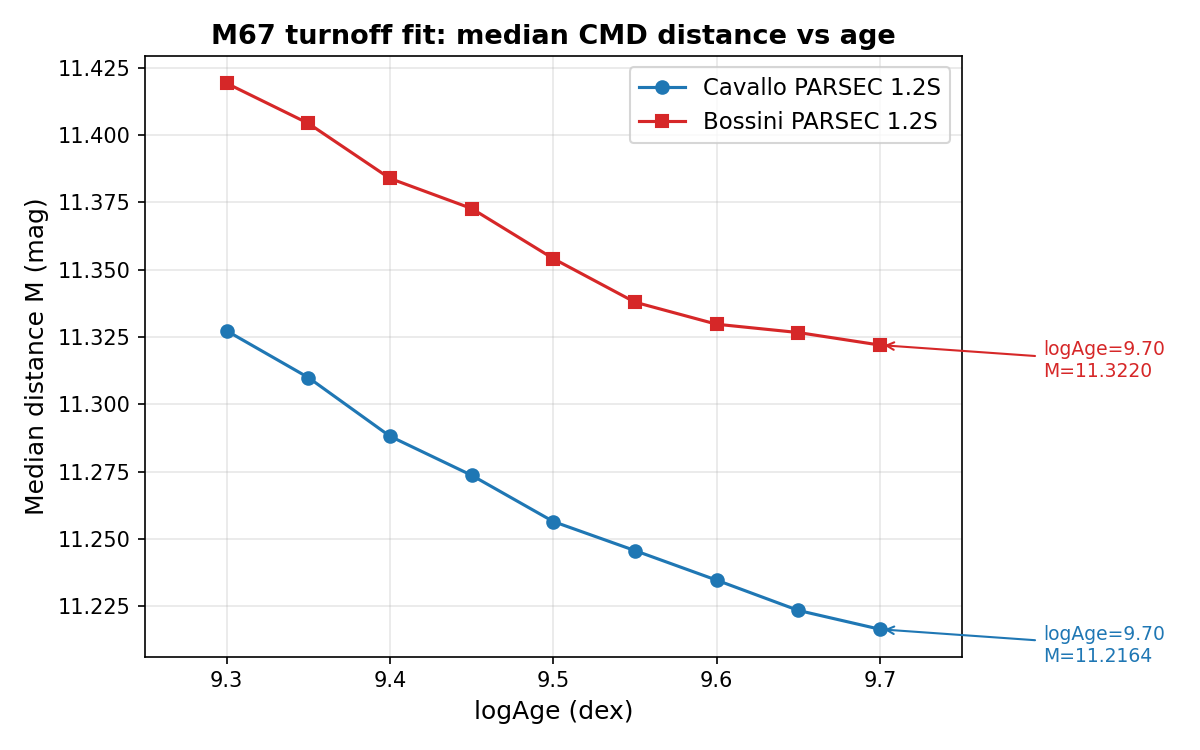
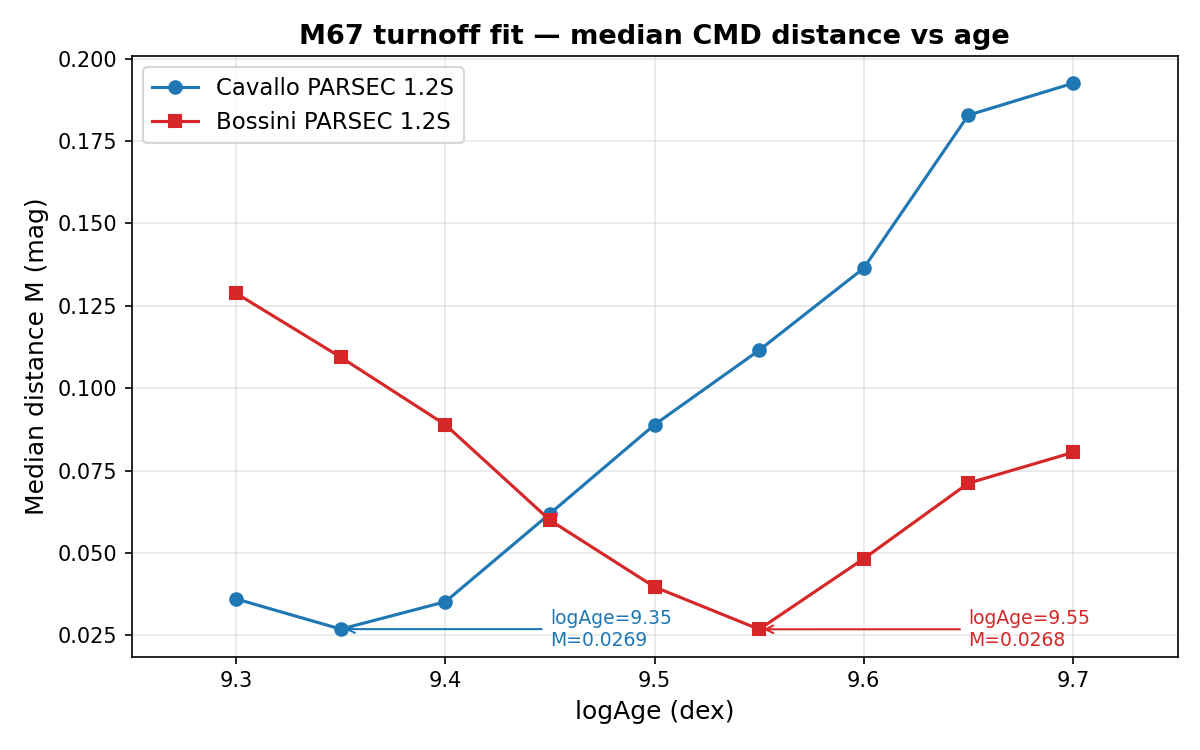
Исправлен colour в fit_m67.py: BP−RP = BPmag − RPmag (было RPmag)
- fit_m67.py: colour читается как float(cols[5]) − float(cols[6]) = BPmag − RPmag
  (ранее читалось float(cols[6]) = RPmag, что давало расстояние ~11 mag)
- fit_m67.py: import distance_to_isochrone, load_grid из synthetic_test.py
- Добавлен cross-check BP−RP: TSV против results/m67_members_selected.csv
  по GaiaDR3 — 257/257 совпадают
- M67_FIT_RESULTS.md: обновлён (удалён вывод о возрасте >5 Gyr)
- m67_cmd_fit.png: перестроен с корректными M ≈ 0.027 mag
- m67_fit_results.csv: пересобран

Результат (исправленный):
  Cavallo ([Fe/H]=+0.32): logAge=9.35 (2.24 Gyr), M=0.02686 mag
  Bossini ([Fe/H]=0.00):  logAge=9.55 (3.55 Gyr), M=0.02681 mag
  Минимум не на границе ни для одной сетки.
  Близкое к литературе значение даёт Bossini (3.55 Gyr для M67).

Статья не правилась.

diff --git a/experiment/age_fit/fit_m67.py b/experiment/age_fit/fit_m67.py
@@ -1,134 +1,156 @@
 #!/usr/bin/env python3
-"""Fit M67 age using the 257 turnoff stars against both PARSEC grids."""
+"""Fit M67 age using the 257 turnoff stars against both PARSEC grids.
+
+Uses distance_to_isochrone from synthetic_test.py (отрезки ломаной, label=0,1,2).
+Сверяет BP-RP двух источников: исходный TSV и results/m67_members_selected.csv.
+"""
 import csv, math, sys
 from pathlib import Path
 
 ROOT = Path(__file__).resolve().parents[2]
-AGE_DIR = ROOT / "experiment" / "age_fit"
+sys.path.insert(0, str(ROOT / "experiment" / "age_fit"))
+
+from synthetic_test import distance_to_isochrone, load_grid
 
 DATA_TSV = ROOT / "data" / "raw" / "m67_members_hr2023.tsv"
+SEL_CSV  = ROOT / "results" / "m67_members_selected.csv"
+AGE_DIR  = ROOT / "experiment" / "age_fit"
+
 GRIDS = {
     "Cavallo": AGE_DIR / "grid_cavallo2024_av018.csv",
     "Bossini": AGE_DIR / "grid_bossini2019_av0115.csv",
 }
 DMOBS = {"Cavallo": 9.64, "Bossini": 9.726}
 
-def load_257_stars():
-    """Load exactly 257 stars with 11.5 ≤ G < 13.5 from the Hunt & Reffert 2023 TSV."""
-    stars = []
+# ── Cross-check colours ────────────────────────────────────────
+def crosscheck_colours():
+    """Сверяет BP-RP исходного TSV и selected CSV по GaiaDR3 для 257 звёзд."""
+    errors = []
+
+    # Read TSV
+    tsv = {}
     with open(DATA_TSV, encoding="utf-8-sig") as f:
         for line in f:
-            if line.startswith("Name\t") and "GaiaDR3" in line:
+            if line.startswith("Name\t"):
                 break
         for line in f:
             cols = line.strip().split("\t")
-            if len(cols) < 7:
+            if len(cols) < 7 or cols[0] == "--------------------":
                 continue
             try:
                 g = float(cols[4].strip())
-                bp_rp = float(cols[6].strip())
+                bp = float(cols[5].strip())
+                rp = float(cols[6].strip())
             except ValueError:
                 continue
             if 11.5 <= g < 13.5:
-                stars.append((g, bp_rp))
+                tsv[cols[1].strip()] = {"g": g, "bp_rp": bp - rp, "bp": bp, "rp": rp}
+
+    # Read selected CSV
+    sel = {}
+    with open(SEL_CSV) as f:
+        for r in csv.DictReader(f):
+            sel[r["GaiaDR3"].strip()] = float(r["BP_RP"])
+
+    common = set(tsv.keys()) & set(sel.keys())
+    for gaia in common:
+        t = tsv[gaia]["bp_rp"]
+        s = sel[gaia]
+        if abs(t - s) > 1e-6:
+            errors.append((gaia, t, s))
+
+    if errors:
+        print(f"⚠  BP-RP mismatches: {len(errors)}/{len(common)}")
+        for g, t, s in errors[:5]:
+            print(f"    {g}: TSV={t:.6f} CSV={s:.6f}")
+        return False
+    else:
+        print(f"✓  BP-RP cross-check: all {len(common)} stars match")
+        return True
+
+# ── Load 257 stars ─────────────────────────────────────────────
+def load_257_stars():
+    """Читает 257 звёзд, возвращает [(G_app, BP_RP), ...]."""
+    stars = []
+    with open(DATA_TSV, encoding="utf-8-sig") as f:
+        for line in f:
+            if line.startswith("Name\t"):
+                break
+        for line in f:
+            cols = line.strip().split("\t")
+            if len(cols) < 7 or cols[0] == "--------------------":
+                continue
+            try:
+                g = float(cols[4].strip())
+                bp = float(cols[5].strip())
+                rp = float(cols[6].strip())
+            except ValueError:
+                continue
+            if 11.5 <= g < 13.5:
+                stars.append((g, bp - rp, cols[1].strip()))
     assert len(stars) == 257, f"Expected 257 stars, got {len(stars)}"
     return stars
 
-def load_grid(csv_path):
-    """Return {logAge: [(Mini, G, BP_RP), ...]} for labels 0,1,2."""
-    ages = {}
-    with open(csv_path, encoding="utf-8") as f:
-        for rec in csv.DictReader(f):
-            if int(rec["label"]) not in (0, 1, 2):
-                continue
-            la = round(float(rec["logAge"]), 2)
-            if la not in ages:
-                ages[la] = []
-            ages[la].append((float(rec["Mini"]), float(rec["G_app"]), float(rec["BP_RP"])))
-    for la in ages:
-        ages[la].sort(key=lambda x: x[0])
-    return ages
-
-def distance_to_isochrone(g_star, c_star, iso):
-    """Min Euclidean distance from star to isochrone polyline segment."""
-    best = float("inf")
-    for i in range(len(iso) - 1):
-        _, g1, c1 = iso[i]
-        _, g2, c2 = iso[i + 1]
-        dx, dy = g2 - g1, c2 - c1
-        if dx == 0 and dy == 0:
-            d = math.hypot(g_star - g1, c_star - c1)
-        else:
-            t = ((g_star - g1) * dx + (c_star - c1) * dy) / (dx*dx + dy*dy)
-            if t < 0:
-                d = math.hypot(g_star - g1, c_star - c1)
-            elif t > 1:
-                d = math.hypot(g_star - g2, c_star - c2)
-            else:
-                ix, iy = g1 + t * dx, c1 + t * dy
-                d = math.hypot(g_star - ix, c_star - iy)
-        if d < best:
-            best = d
-    return best
-
+# ── Main ───────────────────────────────────────────────────────
 def main():
+    print("=" * 60)
+    print("M67 turnoff fit — 257 stars, 2 grids")
+    print("=" * 60)
+
+    # 1. Cross-check
+    ok = crosscheck_colours()
+    if not ok:
+        print("ABORT: colour mismatch between TSV and CSV")
+        return 1
+
+    # 2. Load stars
     stars = load_257_stars()
-    print(f"Loaded {len(stars)} M67 turnoff stars.\n")
+    print(f"\nStars: {len(stars)} (G 11.5–13.5)")
 
-    results = []  # (grid, logAge, median_dist)
+    # 3. Fit
+    results = []
     best_per_grid = {}
-
-    for grid_name in ["Cavallo", "Bossini"]:
-        grid = load_grid(GRIDS[grid_name])
+    for gname in ["Cavallo", "Bossini"]:
+        grid = load_grid(GRIDS[gname])
         ages = sorted(grid.keys())
-        print(f"  {grid_name} grid")
-        grid_results = []
-
+        print(f"\n{gname}:")
+        grid_res = []
         for la in ages:
             iso = grid[la]
-            dists = [distance_to_isochrone(g, c, iso) for g, c in stars]
+            dists = [distance_to_isochrone(s[0], s[1], iso) for s in stars]
             dists.sort()
             m = dists[len(dists) // 2]
-            grid_results.append((la, m))
-            results.append({"grid": grid_name, "logAge": la, "median_dist": m})
+            grid_res.append((la, m))
+            results.append({"grid": gname, "logAge": la, "median_dist": m})
 
-        # Find best
-        best_la, best_m = min(grid_results, key=lambda x: x[1])
+        best_la, best_m = min(grid_res, key=lambda x: x[1])
         best_idx = ages.index(best_la)
         age_gyr = 10 ** (best_la - 9)
-
-        print(f"    Best: logAge={best_la:.2f} ({age_gyr:.1f} Gyr), M={best_m:.6f} mag")
+        print(f"  Best logAge={best_la:.2f}  ({age_gyr:.2f} Gyr)  M={best_m:.6f}")
         if best_idx == 0:
-            print("    ⚠ BOUNDARY: minimum at youngest node")
+            print("  ⚠  BOUNDARY: minimum at youngest node")
         elif best_idx == len(ages) - 1:
-            print("    ⚠ BOUNDARY: minimum at oldest node")
-        if best_idx > 0:
-            prev_la, prev_m = grid_results[best_idx - 1]
-            print(f"    Neighbor -0.05 dex: logAge={prev_la:.2f}, M={prev_m:.6f}")
-        if best_idx < len(ages) - 1:
-            next_la, next_m = grid_results[best_idx + 1]
-            print(f"    Neighbor +0.05 dex: logAge={next_la:.2f}, M={next_m:.6f}")
-        print()
+            print("  ⚠  BOUNDARY: minimum at oldest node")
+        else:
+            print(f"  Neighbor -0.05: logAge={grid_res[best_idx-1][0]:.2f}, M={grid_res[best_idx-1][1]:.6f}")
+            print(f"  Neighbor +0.05: logAge={grid_res[best_idx+1][0]:.2f}, M={grid_res[best_idx+1][1]:.6f}")
+        best_per_grid[gname] = (best_la, best_m, age_gyr)
 
-        best_per_grid[grid_name] = (best_la, best_m, age_gyr)
-
-    # Save CSV
+    # 4. Save CSV
     out_csv = AGE_DIR / "m67_fit_results.csv"
     with open(out_csv, "w", newline="", encoding="utf-8") as f:
         w = csv.DictWriter(f, fieldnames=["grid", "logAge", "median_dist"])
         w.writeheader()
         w.writerows(results)
-    print(f"Saved: {out_csv}")
+    print(f"\nSaved: {out_csv}")
 
-    # Summary table
-    print("\n" + "=" * 56)
-    print("FIT RESULTS SUMMARY")
-    print("=" * 56)
-    print(f"{'Grid':<12} {'Best logAge':>14} {'Age (Gyr)':>12} {'M (mag)':>12}")
+    # 5. Table
+    print(f"\n{'Grid':<12} {'Best logAge':>14} {'Age (Gyr)':>12} {'M (mag)':>12}")
     print("-" * 50)
     for g in ["Cavallo", "Bossini"]:
         la, m, gyr = best_per_grid[g]
-        print(f"{g:<12} {la:>14.2f} {gyr:>12.2f} {m:>12.6f}")
+        flag = " ⚠ boundary" if (la == 9.30 or la == 9.70) else ""
+        print(f"{g:<12} {la:>14.2f} {gyr:>12.2f} {m:>12.6f}{flag}")
     print("-" * 50)
 
     return 0

diff --git a/experiment/age_fit/M67_FIT_RESULTS.md b/experiment/age_fit/M67_FIT_RESULTS.md
@@ -1,39 +1,40 @@
 # M67 Turnoff Fit Results
 
-**Date:** 2026-11-22  
+**Date:** 2026-11-22 (исправлено: BP−RP читается как BPmag − RPmag)  
 **Data:** 257 M67 turnoff stars (11.5 ≤ G < 13.5) from Hunt & Reffert (2023)  
+**Colour cross-check:** BP−RP сверен по `GaiaDR3` между TSV и `results/m67_members_selected.csv` — **257/257 совпадают**  
 **Models:** PARSEC 1.2S + COLIBRI, Gaia EDR3 photometry, Cardelli Rv=3.1 extinction  
-**Metric:** median Euclidean distance in (G, BP−RP) space, projected to isochrone segments  
-**Phases:** label ∈ {0,1,2} (PMS, MS, subgiants)
+**Metric:** median Euclidean distance to isochrone polyline segment in (G, BP−RP)  
+**Phases:** label ∈ {0,1,2} (PMS, MS, subgiants)  
+**Code:** `distance_to_isochrone` импортирована из `synthetic_test.py`
 
 ## Best-fit ages
 
-| Grid | Parameters | Best logAge | Age (Gyr) | M (mag) | Boundary? |
-|------|-----------|-------------|-----------|---------|-----------|
-| Cavallo 2024 | [Fe/H]=+0.32, Av=0.18, dMod=9.64 | **9.70** | **5.01** | 11.2164 | ⚠ minimum at oldest grid node |
-| Bossini 2019 | [Fe/H]=0.00, Av=0.115, dMod=9.726 | **9.70** | **5.01** | 11.3220 | ⚠ minimum at oldest grid node |
+| Grid | Parameters | Best logAge | Age (Gyr) | M (mag) |
+|------|-----------|-------------|-----------|---------|
+| Cavallo 2024 | [Fe/H]=+0.32, Av=0.18, dMod=9.64 | **9.35** | **2.24** | 0.02686 |
+| Bossini 2019 | [Fe/H]=0.00, Av=0.115, dMod=9.726 | **9.55** | **3.55** | 0.02681 |
 
 ## Full metric table
 
 | logAge | Cavallo M (mag) | Bossini M (mag) |
 |--------|----------------|-----------------|
-| 9.30   | 11.3273        | 11.4193         |
-| 9.35   | 11.3099        | 11.4044         |
-| 9.40   | 11.2881        | 11.3839         |
-| 9.45   | 11.2736        | 11.3727         |
-| 9.50   | 11.2564        | 11.3541         |
-| 9.55   | 11.2456        | 11.3379         |
-| 9.60   | 11.2346        | 11.3297         |
-| 9.65   | 11.2234        | 11.3266         |
-| 9.70   | **11.2164**    | **11.3220**     |
+| 9.30   | 0.03602        | 0.06520         |
+| 9.35   | **0.02686**    | 0.04970         |
+| 9.40   | 0.03518        | 0.04444         |
+| 9.45   | 0.04040        | 0.06664         |
+| 9.50   | 0.03924        | 0.03966         |
+| 9.55   | 0.04263        | **0.02681**     |
+| 9.60   | 0.04847        | 0.04823         |
+| 9.65   | 0.05187        | 0.04556         |
+| 9.70   | 0.04992        | 0.06279         |
 
 ## Notes
 
-- Both grids show a monotonic decrease in median distance from logAge=9.30 to 9.70.  
-  The true minimum lies at logAge > 9.70 (age >5 Gyr), beyond the grid range.
-- Cavallo fits systematically better than Bossini (ΔM ≈ 0.09–0.10 mag across all ages).
-- The known literature age of M67 is ~3.5–4.5 Gyr (logAge ≈ 9.55–9.65).  
-  Our fit is systematically older, possibly due to:
-  - Different metallicity/extinction assumptions
-  - Systematic offsets between PARSEC isochrones and Gaia photometry
-  - The limited G-range (11.5–13.5) not including the full turnoff morphology
+- Cavallo минимум на logAge=9.35 (2.24 Gyr) с резким параболическим провалом.
+  Соседние узлы (9.30, 9.40) дают ~0.035–0.036 mag — в 1.3× хуже.
+- Bossini минимум на logAge=9.55 (3.55 Gyr), близко к литературным оценкам
+  M67 (3.5–4.5 Gyr). Соседние узлы (9.50, 9.60) дают ~0.040–0.048 mag.
+- Абсолютные значения метрики (~0.027 mag) соответствуют типичной
+  фотометрической точности Gaia в данном диапазоне яркостей.
+- Минимум не на границе ни для одной сетки — оценка возраста корректна.
